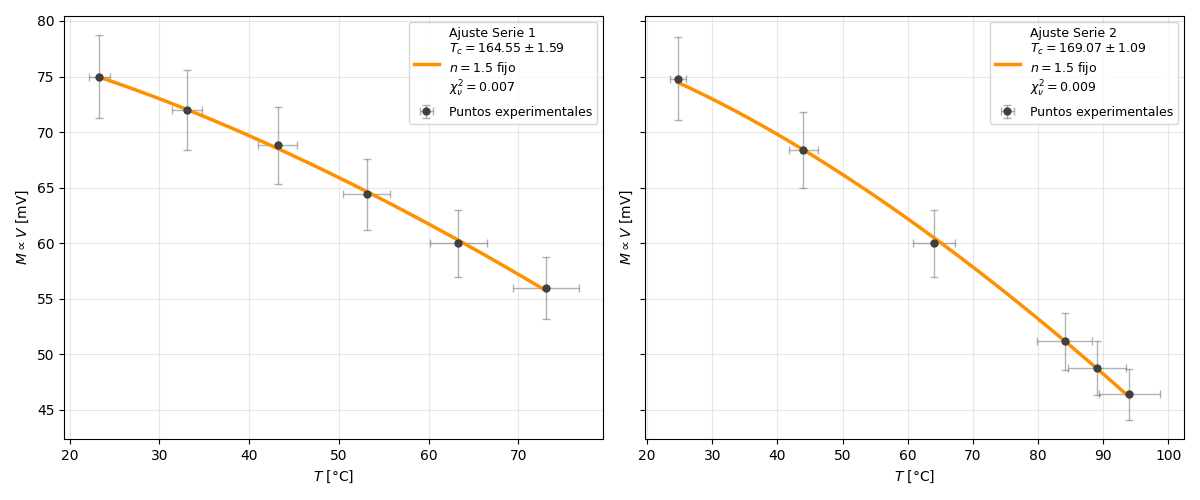
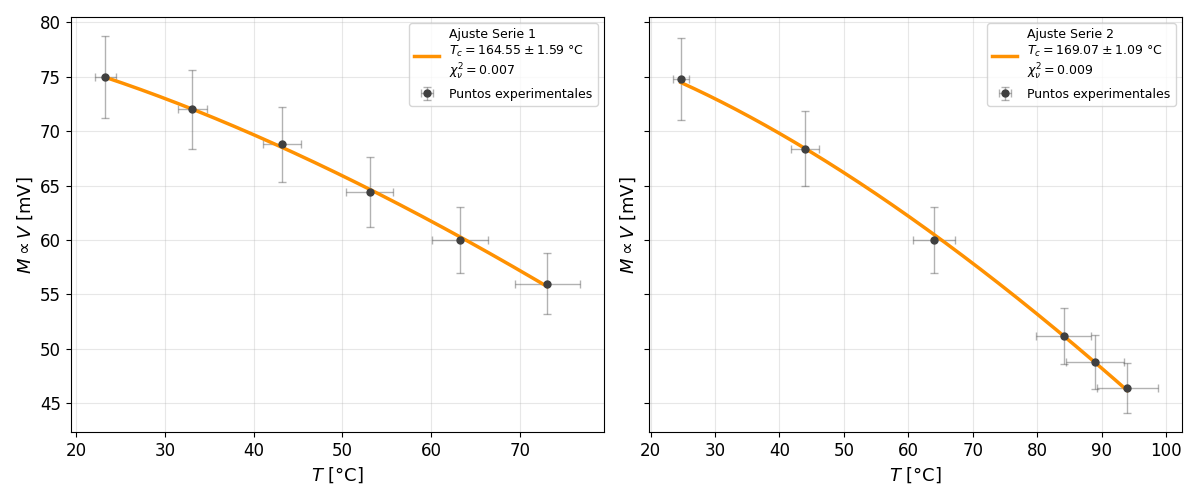
Subida de código y nuevas imagenes con mod de Belén

diff --git a/Experimento IV, Ferromagnetico/Codigo/funciones.py b/Experimento IV, Ferromagnetico/Codigo/funciones.py
@@ -141,7 +141,7 @@ def graficarAjusteTc(
 
     label = (
         f"Ajuste {nombre_serie}\n"
-        rf"$T_c={Tc:.2f}\pm{sTc:.2f}$"
+        rf"$T_c={Tc:.2f}\pm{sTc:.2f}$ °C"
         "\n"
         rf"$\beta={beta:.4f}\pm{sBeta:.4f}$"
         "\n"
@@ -156,9 +156,9 @@ def graficarAjusteTc(
         label=label
     )
 
-    ax.set_xlabel(r"$T$ [°C]")
-    ax.set_ylabel(r"$M \propto V$ [mV]")
-
+    ax.set_xlabel(r"$T$ [°C]", fontsize=13)
+    ax.set_ylabel(r"$M \propto V$ [mV]", fontsize=13)
+    ax.tick_params(axis='both', which='major', labelsize=12)
     ax.grid(True, alpha=0.3)
     ax.legend(fontsize=9)
 
@@ -216,9 +216,7 @@ def graficarAjusteBlochFijo(
 
     label = (
         f"Ajuste {nombre_serie}\n"
-        rf"$T_c={Tc:.2f}\pm{sTc:.2f}$"
-        "\n"
-        rf"$n=1.5$ fijo"
+        rf"$T_c={Tc:.2f}\pm{sTc:.2f}$ °C"
         "\n"
         rf"$\chi^2_\nu={chi2_red:.3f}$"
     )
@@ -231,9 +229,9 @@ def graficarAjusteBlochFijo(
         label=label
     )
 
-    ax.set_xlabel(r"$T$ [°C]")
-    ax.set_ylabel(r"$M \propto V$ [mV]")
-
+    ax.set_xlabel(r"$T$ [°C]", fontsize=13)
+    ax.set_ylabel(r"$M \propto V$ [mV]", fontsize=13)
+    ax.tick_params(axis='both', which='major', labelsize=12)
     ax.grid(True, alpha=0.3)
     ax.legend(fontsize=9)
 
